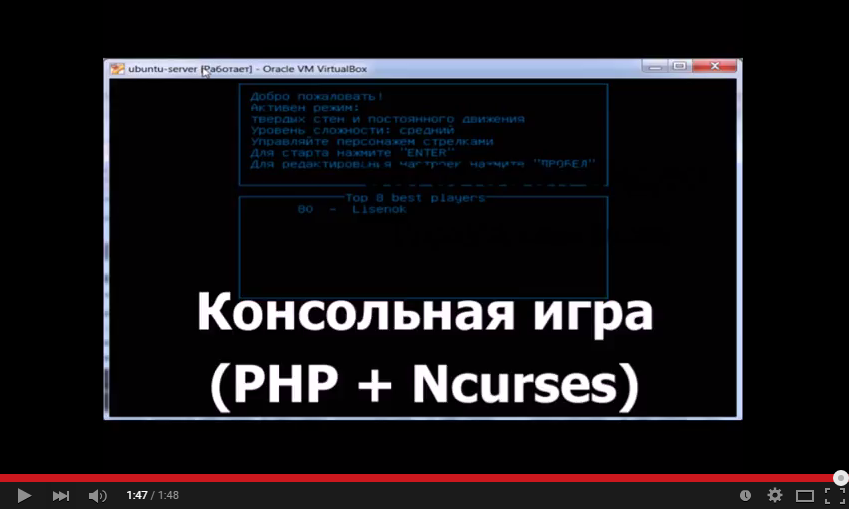
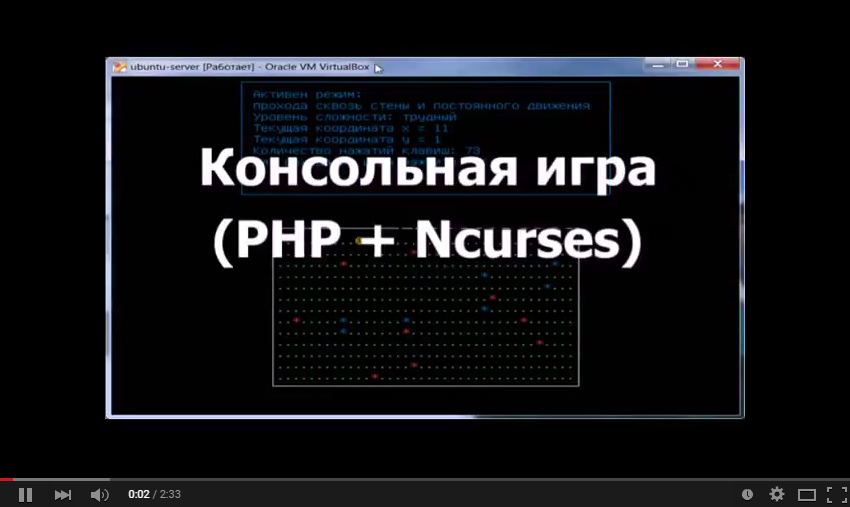
Add new character every 10 strokes in game

Changed region(s): [[0.1225, 0.0888, 0.8881, 0.8284], [0.0, 0.9172, 1.0, 1.0]]

diff --git a/Task_03/src/drawingncurses.php b/Task_03/src/drawingncurses.php
@@ -20,6 +20,9 @@ Class DrawingNcurses implements Drawing
             ncurses_init_pair(1, NCURSES_COLOR_GREEN, NCURSES_COLOR_BLACK);
             ncurses_init_pair(2, NCURSES_COLOR_RED, NCURSES_COLOR_BLACK);
             ncurses_init_pair(3, NCURSES_COLOR_BLUE, NCURSES_COLOR_BLACK);
+            ncurses_init_pair(4, NCURSES_COLOR_YELLOW, NCURSES_COLOR_BLACK);
+            ncurses_init_pair(5, NCURSES_COLOR_WHITE, NCURSES_COLOR_BLACK);
+            ncurses_init_pair(6, NCURSES_COLOR_BLACK, NCURSES_COLOR_BLACK);
         }
     }
 
@@ -38,12 +41,12 @@ Class DrawingNcurses implements Drawing
         ncurses_wcolor_set($this->infoField, 3);
         ncurses_wborder($this->infoField, 0, 0, 0, 0, 0, 0, 0, 0);
         ncurses_mvwaddstr($this->infoField, 1, 2, 'Добро пожаловать!');
-        ncurses_mvwaddstr($this->infoField, 2, 2, 'Активен режим:');
-        ncurses_mvwaddstr($this->infoField, 3, 2, $wall . ' и ' . $motion);
-        ncurses_mvwaddstr($this->infoField, 4, 2, 'Уровень сложности: ' . $complexity);
-        ncurses_mvwaddstr($this->infoField, 5, 2, 'Управляйте персонажем стрелками');
-        ncurses_mvwaddstr($this->infoField, 6, 2, 'Для старта нажмите "ENTER"');
-        ncurses_mvwaddstr($this->infoField, 7, 2, 'Для редактирования настроек нажмите "ПРОБЕЛ"');
+        ncurses_mvwaddstr($this->infoField, 3, 2, 'Активен режим:');
+        ncurses_mvwaddstr($this->infoField, 4, 2, $wall . ' и ' . $motion);
+        ncurses_mvwaddstr($this->infoField, 5, 2, 'Уровень сложности: ' . $complexity);
+        ncurses_mvwaddstr($this->infoField, 6, 2, 'Управляйте персонажем стрелками');
+        ncurses_mvwaddstr($this->infoField, 7, 2, 'Для старта нажмите "ENTER"');
+        ncurses_mvwaddstr($this->infoField, 8, 2, 'Для редактирования настроек нажмите "ПРОБЕЛ"');
         $this->refreshField($this->infoField);
     }
 
@@ -54,7 +57,8 @@ Class DrawingNcurses implements Drawing
         ncurses_mvwaddstr($this->infoField, 2, 11, 'Выберите режим стен:');
         ncurses_mvwaddstr($this->infoField, 4, 11, '0 - твердые стены');
         ncurses_mvwaddstr($this->infoField, 5, 11, '1 - проход сквозь стены');
-        ncurses_wrefresh($this->infoField);
+        $this->refreshField($this->infoField);
+        ncurses_color_set (6);
     }
 
     public function editSettingMotion()
@@ -63,7 +67,7 @@ Class DrawingNcurses implements Drawing
         ncurses_mvwaddstr($this->infoField, 2, 11, 'Выберите режим движения:');
         ncurses_mvwaddstr($this->infoField, 4, 11, '0 - перемещение по нажатию');
         ncurses_mvwaddstr($this->infoField, 5, 11, '1 - постоянное движение');
-        ncurses_wrefresh($this->infoField);
+        $this->refreshField($this->infoField);
     }
 
     public function editSettingComplexity()
@@ -73,7 +77,7 @@ Class DrawingNcurses implements Drawing
         ncurses_mvwaddstr($this->infoField, 4, 11, '1 - легкий');
         ncurses_mvwaddstr($this->infoField, 5, 11, '2 - средний');
         ncurses_mvwaddstr($this->infoField, 6, 11, '3 - трудный');
-        ncurses_wrefresh($this->infoField);
+        $this->refreshField($this->infoField);
     }
 
     public function drawInfoField($x, $y, $n, $liquid, $constantMotion, $complexity)
@@ -98,11 +102,14 @@ Class DrawingNcurses implements Drawing
         $paddingTop = (($this->hScreen - $h) + H_INFO_FIELD) / 2;
         $paddingLeft = ($this->wScreen - $w) / 2;
         $this->field = ncurses_newwin($h, $w, $paddingTop, $paddingLeft);
-        ncurses_wcolor_set($this->field, 1);
+        ncurses_wcolor_set($this->field, 5);
         ncurses_wborder($this->field, 0, 0, 0, 0, 0, 0, 0, 0);
+        ncurses_wcolor_set($this->field, 1);
         $this->fillField($this->field, $h, $w, '.');
+        ncurses_wcolor_set($this->field, 4);
         ncurses_mvwaddstr($this->field, $gamer->getY(), $gamer->getX(), '@');
         foreach ($characters as $character){
+            ncurses_wcolor_set($this->field, $character->getColor());
             ncurses_mvwaddstr($this->field, $character->getY(), $character->getX(), '*');
         }
         $this->refreshField($this->field);
@@ -121,7 +128,7 @@ Class DrawingNcurses implements Drawing
     }
 
     public function drawResults(array $result = []){
-        $this->winnerField = ncurses_newwin(H_INFO_FIELD, W_INFO_FIELD, ($this->hScreen - H_INFO_FIELD) / 2, ($this->wScreen - W_INFO_FIELD) / 2);
+        $this->winnerField = ncurses_newwin(H_INFO_FIELD, W_INFO_FIELD, ($this->hScreen - H_INFO_FIELD + 3) / 2, ($this->wScreen - W_INFO_FIELD) / 2);
         ncurses_wcolor_set($this->winnerField, 3);
         ncurses_wborder($this->winnerField, 0, 0, 0, 0, 0, 0, 0, 0);
         $this->fillField($this->winnerField, H_INFO_FIELD - 1, W_INFO_FIELD - 1, ' ');
@@ -139,7 +146,7 @@ Class DrawingNcurses implements Drawing
 
     public function gameOver($h, $w, $liquid, $constantMotion, $complexity)
     {
-        $gameOverField = ncurses_newwin(H_INFO_FIELD, W_INFO_FIELD, ($this->hScreen - H_INFO_FIELD) / 2, ($this->wScreen - W_INFO_FIELD) / 2);
+        $gameOverField = ncurses_newwin(H_INFO_FIELD, W_INFO_FIELD, ($this->hScreen - H_INFO_FIELD + 3) / 2, ($this->wScreen - W_INFO_FIELD) / 2);
         ncurses_wcolor_set($gameOverField, 2);
         ncurses_wborder($gameOverField, 0, 0, 0, 0, 0, 0, 0, 0);
         $this->fillField($gameOverField, H_INFO_FIELD - 1, W_INFO_FIELD - 1, ' ');
@@ -152,7 +159,7 @@ Class DrawingNcurses implements Drawing
     public function echoUserName()
     {
         static $counter = 0;
-        $y = ($this->hScreen - H_INFO_FIELD) / 2 + 6;
+        $y = ($this->hScreen - H_INFO_FIELD) / 2 + 8;
         $x = ($this->wScreen - W_INFO_FIELD) / 2 + 30;
         ncurses_move ($y,$x + $counter);
         ncurses_color_set (3);

diff --git a/Task_03/src/game.php b/Task_03/src/game.php
@@ -103,6 +103,12 @@ Class Game
         $this->painter->drawField($this->h, $this->w, $this->gamer, $this->characters);
         $flag = '';
         while (true) {
+            static $tensCounter = COUNTER_FOR_APPEARANCE_CHARACTER;
+            if ($this->gamer->getCounter() == $tensCounter){
+                $tensCounter = $tensCounter + COUNTER_FOR_APPEARANCE_CHARACTER;
+                $rand = rand(1,2);
+                $this->characters[] = ($rand == 1) ? CharacterFactory::create("CharacterPursue") : CharacterFactory::create("CharacterRand");
+            }
             if ($this->constantMotion){
                 $kea = $this->listener->controlUserAction(array(ListenerNcurses::RIGHT_KEY, ListenerNcurses::LEFT_KEY, ListenerNcurses::UP_KEY, ListenerNcurses::DOWN_KEY, EXIT_KEY), true);
             } else {
@@ -184,7 +190,7 @@ Class Game
         }
 
         try {
-            $db->savePlayer($name,$this->gamer->getCounter());
+            $db->savePlayer($name, $this->gamer->getCounter());
             $winners = $db->getWinners();
         } catch (PDOException $e){
             die ('Exception: '.$e->getMessage());

diff --git a/Task_03/src/characterpursue.php b/Task_03/src/characterpursue.php
@@ -2,8 +2,9 @@
 
 Class CharacterPursue implements Character
 {
-    public $x;
-    public $y;
+    private $x;
+    private $y;
+    private $color = CHARACTER_RED;
 
     public function __construct()
     {
@@ -19,6 +20,11 @@ Class CharacterPursue implements Character
     public function getY()
     {
         return $this->y;
+    }
+
+    public function getColor()
+    {
+        return $this->color;
     }
 
     public function moveCharacter($h, $w, $gamerX, $gamerY)

diff --git a/Task_03/src/characterrand.php b/Task_03/src/characterrand.php
@@ -4,6 +4,7 @@ Class CharacterRand implements Character
 {
     private $x;
     private $y;
+    private $color = CHARACTER_BLUE;
 
     public function __construct()
     {
@@ -19,6 +20,11 @@ Class CharacterRand implements Character
     public function getY()
     {
         return $this->y;
+    }
+
+    public function getColor()
+    {
+        return $this->color;
     }
 
     public function moveCharacter($h, $w, $gamerX, $gamerY)

diff --git a/Task_03/index.php b/Task_03/index.php
@@ -12,6 +12,10 @@ define("THREE_KEY", 51);
 define("ENTER_KEY", 13);
 define("SPACE_KEY", 32);
 
+define("COUNTER_FOR_APPEARANCE_CHARACTER", 10);
+define("CHARACTER_BLUE", 3);
+define("CHARACTER_RED", 2);
+
 define("XRIGHT", 'xRight');
 define("XLEFT", 'xLeft');
 define("YUP", 'yUp');

diff --git a/Task_03/src/character.php b/Task_03/src/character.php
@@ -4,5 +4,6 @@ interface Character
 {
     public function getX();
     public function getY();
+    public function getColor();
     public function moveCharacter($h, $w, $gamerX, $gamerY);
 }

diff --git a/README.md b/README.md
@@ -24,4 +24,4 @@ https://github.com/LisKorzun/PHP---Training_Tasks/tree/task-03/Task_03
 
 Video:
 
-[![ScreenShot](https://github.com/LisKorzun/PHP---Training_Tasks/blob/task-03/Task_03/img/game_php_ncurses.png)](https://youtu.be/3d5WrZZNL10)
+[![ScreenShot](https://github.com/LisKorzun/PHP---Training_Tasks/blob/task-03/Task_03/img/game_php_ncurses.png)](https://youtu.be/Utnoq-KWFWc)
